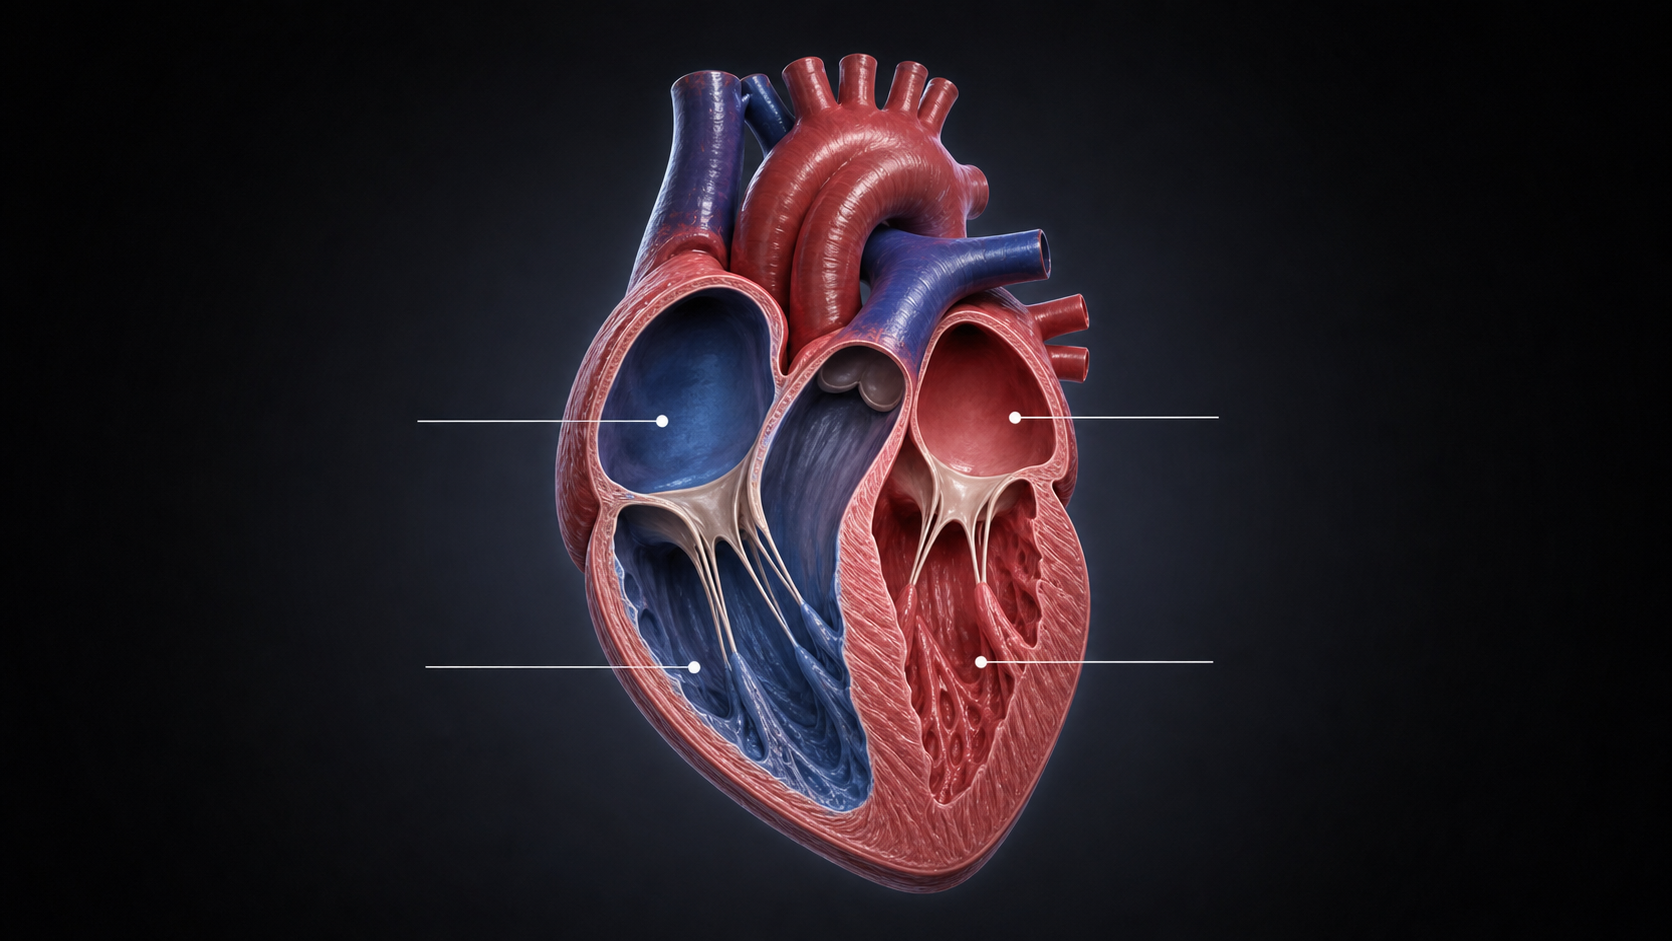
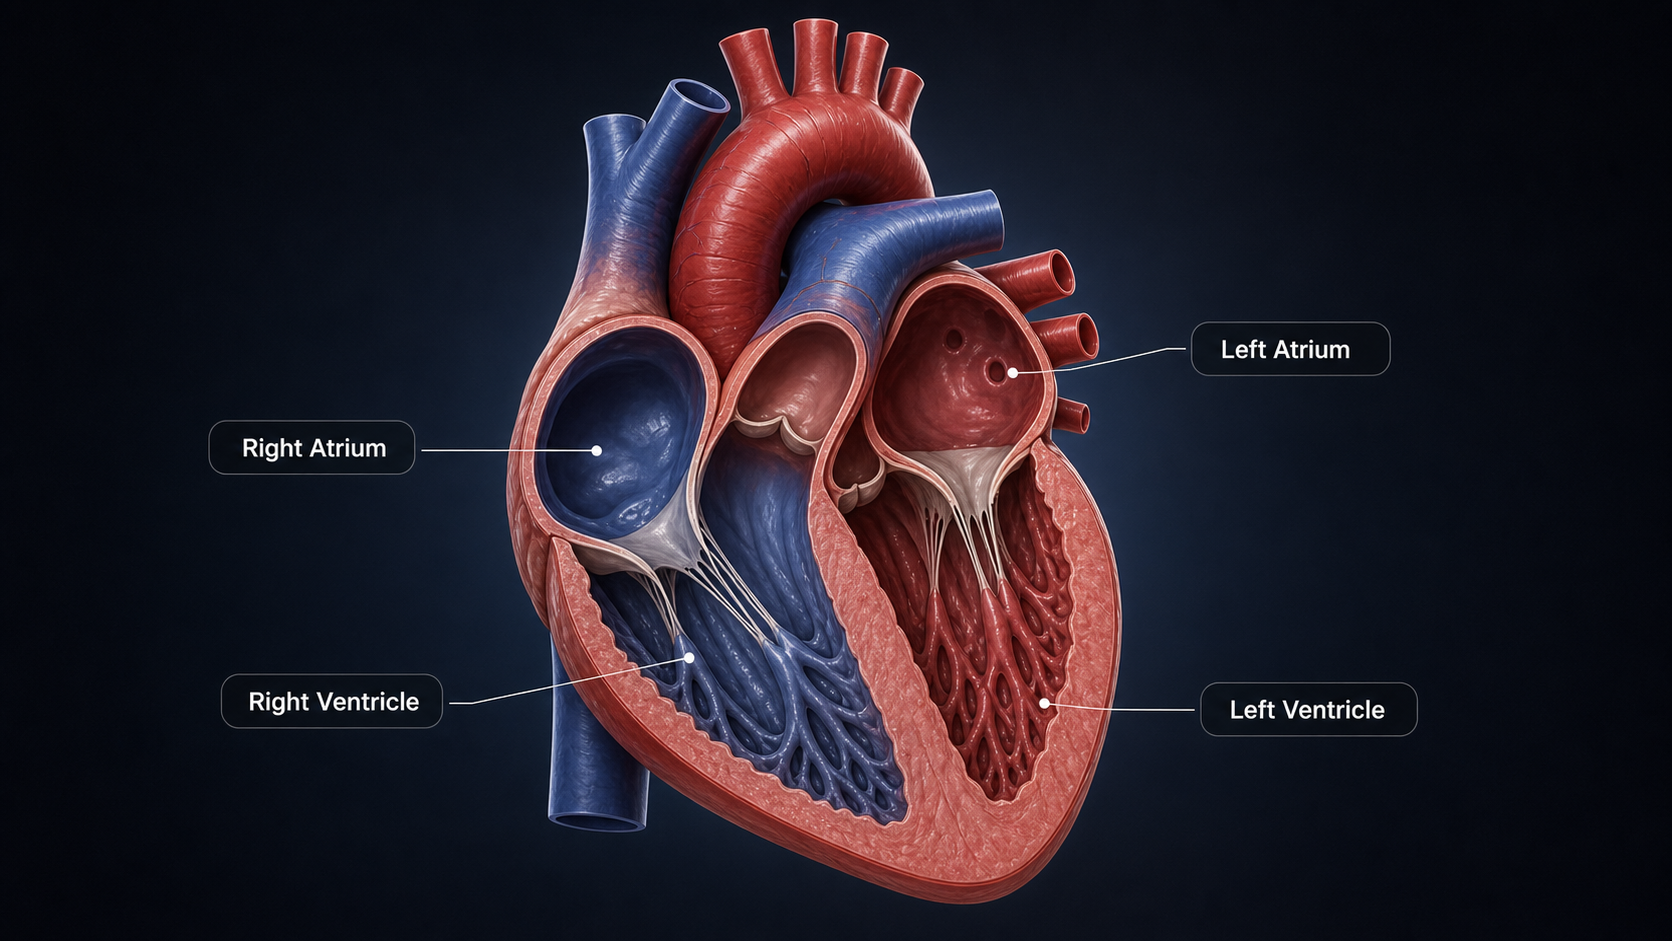
Lower tabs and model a bit; keep carousel at its current height

Changed region(s): [[0.1244, 0.0, 0.8086, 0.9862], [0.7153, 0.7396, 0.8397, 0.7705], [0.1555, 0.7088, 0.2488, 0.7705]]

diff --git a/Anatomy/ImmersiveView.swift b/Anatomy/ImmersiveView.swift
@@ -10,7 +10,7 @@ import RealityKit
 import RealityKitContent
 
 private enum ImmersiveLayoutConfig {
-    static let topBarPosition = SIMD3<Float>(0.0, 2.00, -1.30)
+    static let topBarPosition = SIMD3<Float>(0.0, 1.97, -1.30)
     static let topBarWidth: CGFloat = 480
     static let auraSize: CGFloat = 1180
     static let heroFrame = CGSize(width: 1440, height: 1100)
@@ -67,12 +67,12 @@ struct ImmersiveView: View {
     }
     private var viewerLayout: AnatomyOrgan.ViewerLayout { selectedOrgan.viewerLayout(for: viewerAngle) }
     // Lift the model (+rings), labels, and carousel up together; the panel stays put.
-    private let sceneLift = SIMD3<Float>(0, 0.08, 0)
+    private let sceneLift = SIMD3<Float>(0, 0.05, 0)
     private var heartPosition: SIMD3<Float> { viewerLayout.heroPosition + sceneLift }
     private var labelsPosition: SIMD3<Float> { viewerLayout.labelsPosition + sceneLift }
     private var panelPosition: SIMD3<Float> { viewerLayout.panelPosition }
     // Carousel rides a touch lower than the rest of the lifted scene.
-    private var carouselPosition: SIMD3<Float> { viewerLayout.carouselPosition + sceneLift - SIMD3<Float>(0, 0.05, 0) }
+    private var carouselPosition: SIMD3<Float> { viewerLayout.carouselPosition + sceneLift - SIMD3<Float>(0, 0.02, 0) }
     private var visibleAnnotationIDs: Set<String> {
         guard appModel.selectedStudyMode == .labels else { return [] }
         // All curated labels stay visible; selecting one highlights it and softly dims
